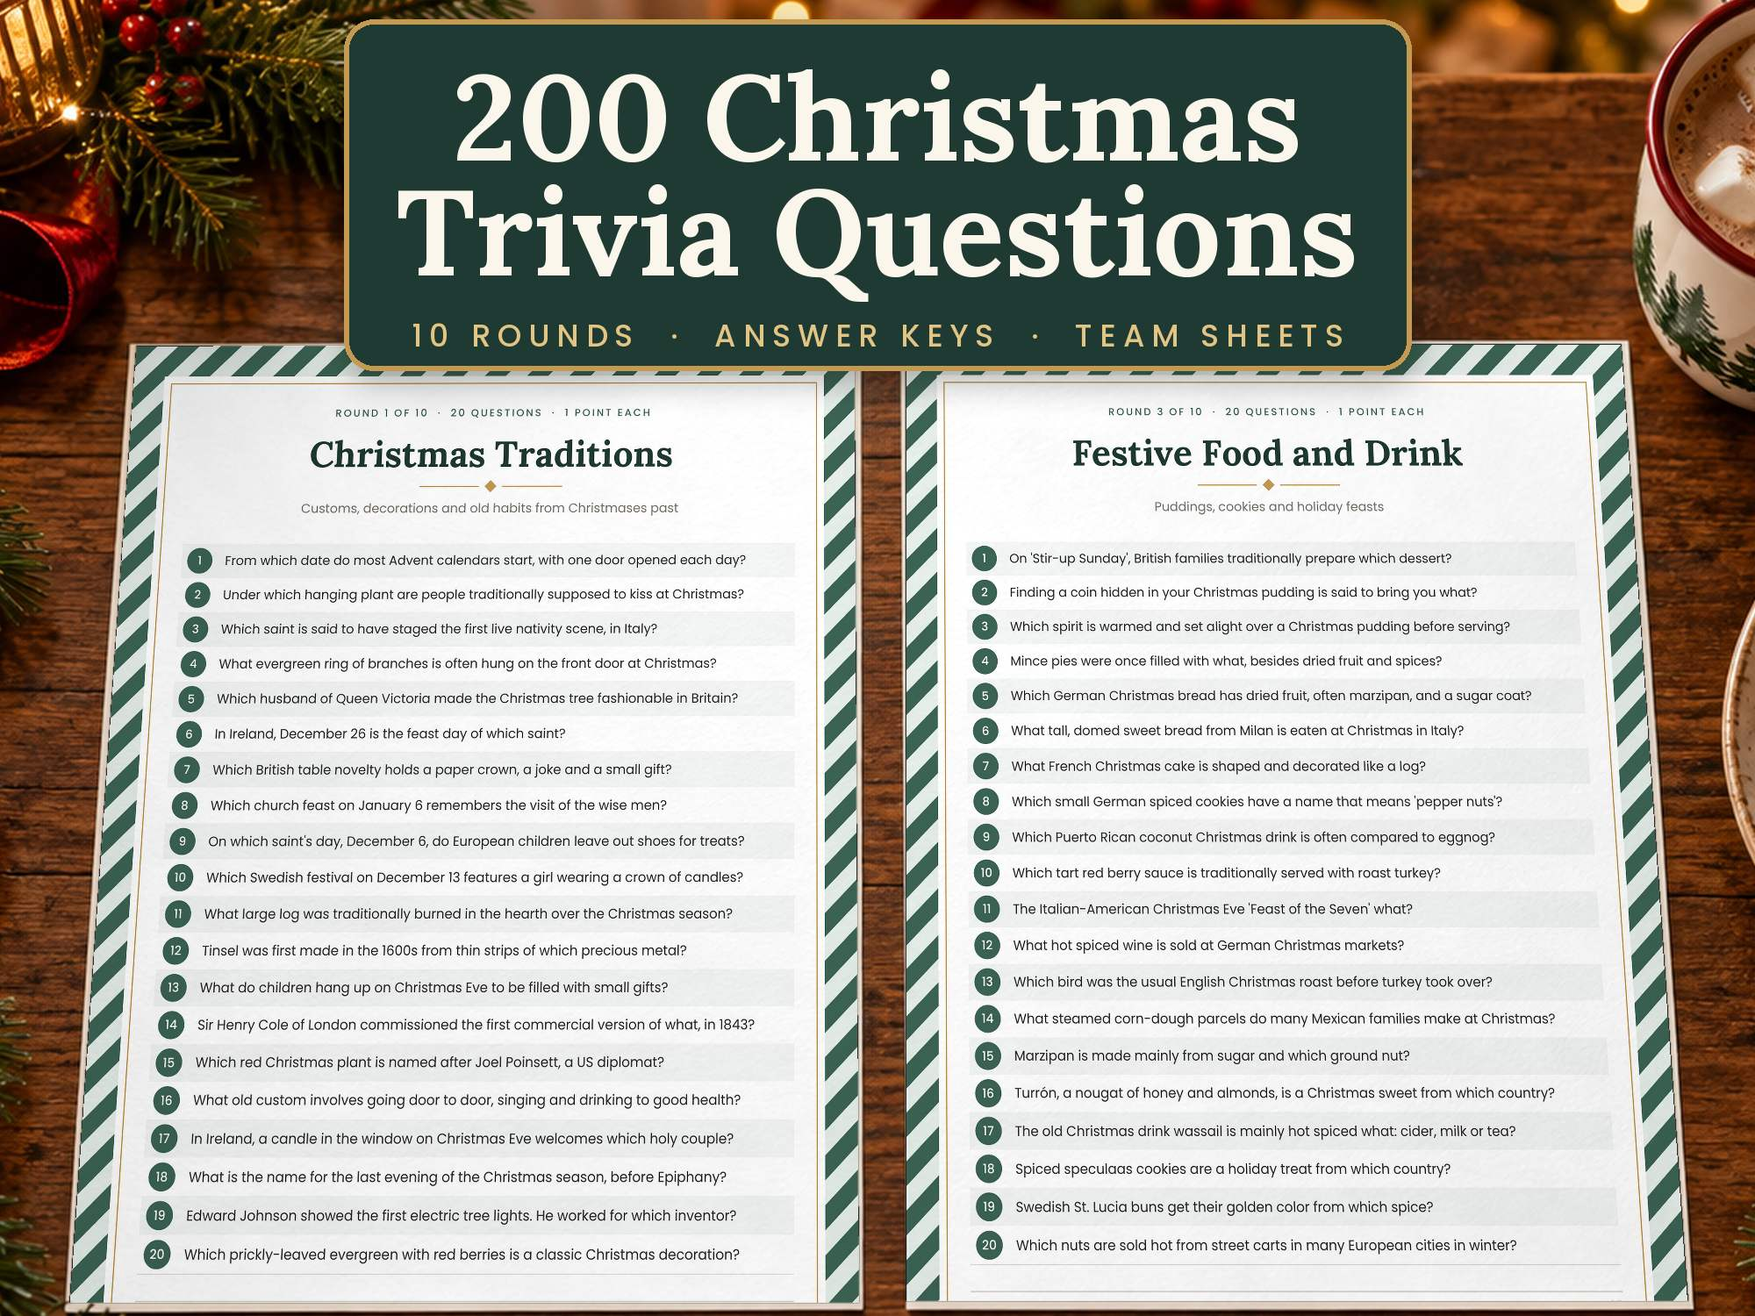
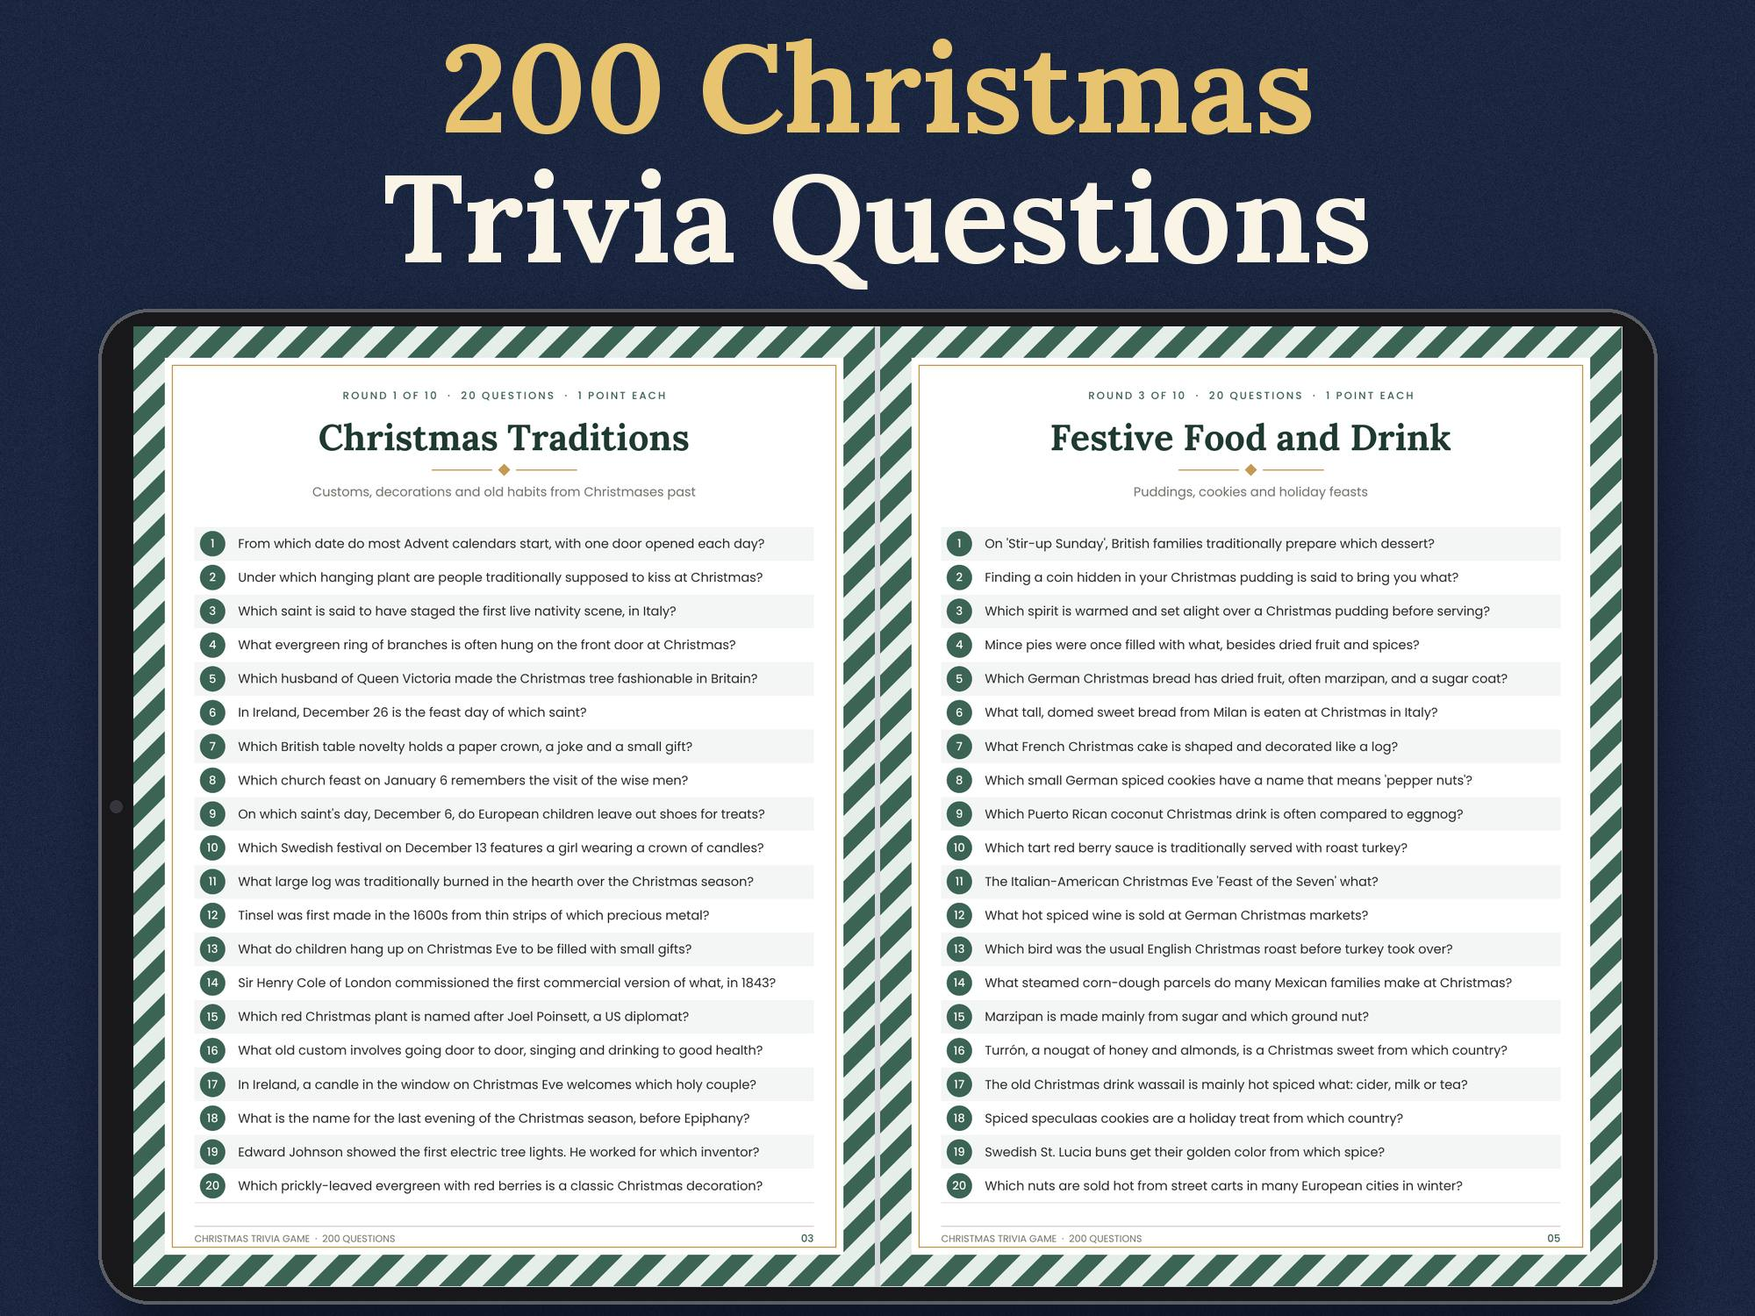
night-shift: fix round 1 Christmas Trivia 200 (device cover, photo 4 fan, 2 questions, tips box, copy teams claim)
Claude-Session: https://claude.ai/code/session_01UmW7iCF1r11qeVwSYsHRib

diff --git a/factory/stages/night-shift/output/2026-11-09-xmas-trivia-build/photos.py b/factory/stages/night-shift/output/2026-11-09-xmas-trivia-build/photos.py
@@ -21,53 +21,46 @@ font = gs.font
 used = {}
 
 
-# ------------------------------------------------------------------ 1 cover: real pages on the holiday-table scene, big cream headline card
+# ------------------------------------------------------------------ 1 cover (fix round 1): device family, landscape tablet
+# showing the real 2-page spread on a flat midnight-navy ground; gold + warm-white headline, no card, no table scene.
+NAVY = (27, 38, 64); GOLD = (233, 196, 112); WARM = (250, 244, 230)
 def cover():
     W, H = 2000, 1500
-    cx0, cy0, cw = 164, 55, 1110
-    s = W / cw
-    full = place.place("christmas", [P[3], P[5]], None, scale=s)
-    im = full.crop((round(cx0 * s), round(cy0 * s), round(cx0 * s) + W, round(cy0 * s) + H))
-    # page mask from the scene's slot quads (same numbers place.py uses)
-    quads = place.SCENES["christmas"][1]
-    mask = Image.new("L", (W, H), 0); md = ImageDraw.Draw(mask)
-    for q in quads:
-        md.polygon([((x - cx0) * s, (y - cy0) * s) for x, y in q], fill=255)
-    page_top = min(y for q in quads for x, y in q)
-    page_top_px = (page_top - cy0) * s
+    im = Image.new("RGB", (W, H), NAVY)
+    g = np.random.default_rng(7).normal(0, 4, (H, W, 1))
+    im = Image.fromarray(np.clip(np.asarray(im).astype(float) + g, 0, 255).astype("uint8"))
     d = ImageDraw.Draw(im)
-    # headline card
     l1, l2 = "200 Christmas", "Trivia Questions"
-    f1 = font("serifB", 138)
-    while max(f1.getlength(l1), f1.getlength(l2)) > 1300: f1 = font("serifB", f1.size - 4)
-    fs = font("sansM", 35)
-    sub = "10 ROUNDS  ·  ANSWER KEYS  ·  TEAM SHEETS"
-    b1 = d.textbbox((0, 0), l1, font=f1); b2 = d.textbbox((0, 0), l2, font=f1)
-    lh = f1.size * 0.95
-    q_bot = ImageDraw.Draw(Image.new('RGB', (10, 10))).textbbox((0, 0), l2, font=f1, anchor='ma')[3]   # incl. the Q tail
-    card_w = max(f1.getlength(l1), f1.getlength(l2), fs.getlength(sub) + 8 * len(sub)) + 120
-    card_h = 22 + lh + q_bot + 14 + 38 + 26
-    x0 = (W - card_w) / 2; y0 = 22
-    sh = Image.new("RGBA", (W, H), (0, 0, 0, 0)); sd = ImageDraw.Draw(sh)
-    sd.rounded_rectangle([x0 + 6, y0 + 14, x0 + card_w + 6, y0 + card_h + 14], 34, fill=(0, 0, 0, 70))
+    f1 = font("serifB", 142)
+    while max(f1.getlength(l1), f1.getlength(l2)) > 1440: f1 = font("serifB", f1.size - 4)
+    y = 8
+    d.text((W / 2, y), l1, font=f1, fill=GOLD, anchor="ma"); bb1 = d.textbbox((W / 2, y), l1, font=f1, anchor="ma")
+    y = bb1[3] + 2
+    d.text((W / 2, y), l2, font=f1, fill=WARM, anchor="ma"); bb2 = d.textbbox((W / 2, y), l2, font=f1, anchor="ma")
+    # tablet: bezel, screen with the two real pages side by side (whole pages, footers included)
+    top = bb2[3] + 22
+    bez, side, bot = 20, 40, 14
+    sh_ = H - bot - top - 2 * bez                 # screen height
+    pw = round(sh_ * 612 / 792); gut = 6
+    sw = 2 * pw + gut
+    tw = sw + 2 * side; th = sh_ + 2 * bez
+    tx = (W - tw) // 2; ty = top
     from PIL import ImageFilter
-    im.paste(Image.new("RGB", (W, H), (0, 0, 0)), (0, 0), sh.filter(ImageFilter.GaussianBlur(18)).split()[3])
+    shadow = Image.new("L", (W, H), 0)
+    ImageDraw.Draw(shadow).rounded_rectangle([tx + 10, ty + 24, tx + tw + 10, ty + th + 24], 60, fill=150)
+    im.paste((8, 12, 24), (0, 0), shadow.filter(ImageFilter.GaussianBlur(26)))
     d = ImageDraw.Draw(im)
-    d.rounded_rectangle([x0, y0, x0 + card_w, y0 + card_h], 34, fill=DEEP, outline=ACC, width=6)
-    y = y0 + 22
-    d.text((W / 2, y), l1, font=f1, fill=CREAM, anchor="ma"); bb1 = d.textbbox((W / 2, y), l1, font=f1, anchor="ma")
-    y += lh
-    d.text((W / 2, y), l2, font=f1, fill=CREAM, anchor="ma"); bb2 = d.textbbox((W / 2, y), l2, font=f1, anchor="ma")
-    y = bb2[3] + 14
-    # spaced small caps subline
-    tw = sum(fs.getlength(ch) for ch in sub) + 8 * (len(sub) - 1); xx = W / 2 - tw / 2
-    for ch in sub:
-        d.text((xx, y), ch, font=fs, fill=(226, 196, 132)); xx += fs.getlength(ch) + 8
-    card = (x0, y0, x0 + card_w, y0 + card_h)
-    sb = d.textbbox((W / 2, y), sub, font=fs, anchor='ma')
-    assert sb[1] >= bb2[3] + 10 and sb[3] <= card[3] - 18, ('subline crowded', sb, bb2, card)
-    mask.paste(0, [int(x0), int(y0), int(x0 + card_w) + 1, int(y0 + card_h) + 1])
-    return im, mask, {"line1": bb1, "line2": bb2, "card": card}, page_top_px
+    d.rounded_rectangle([tx, ty, tx + tw, ty + th], 58, fill=(24, 24, 27), outline=(92, 94, 102), width=4)
+    d.ellipse([tx + side / 2 - 7, ty + th / 2 - 7, tx + side / 2 + 7, ty + th / 2 + 7], fill=(52, 54, 60))
+    sx, sy = tx + side, ty + bez
+    d.rectangle([sx, sy, sx + sw, sy + sh_], fill=(214, 216, 220))
+    mask = Image.new("L", (W, H), 0); md = ImageDraw.Draw(mask)
+    for k, n in enumerate([3, 5]):
+        pg = P[n].convert("RGB").resize((pw, sh_), Image.LANCZOS)
+        x = sx + k * (pw + gut)
+        im.paste(pg, (x, sy)); md.rectangle([x, sy, x + pw - 1, sy + sh_ - 1], fill=255)
+    return im, mask, {"line1": bb1, "line2": bb2, "card": (min(bb1[0], bb2[0]), bb1[1], max(bb1[2], bb2[2]), bb2[3]),
+                      "tablet": (tx, ty, tx + tw, ty + th), "screen": (sx, sy, sx + sw, sy + sh_)}, sy
 
 
 im, mask, boxes, page_top_px = cover()
@@ -76,24 +69,18 @@ gs.thumb_check(im, OUT + "/thumb400.png")
 s_ = min(im.size); x_ = (im.width - s_) // 2
 im.crop((x_, 0, x_ + s_, s_)).resize((300, 300), Image.LANCZOS).save(OUT + "/thumb300.png")
 card = boxes["card"]
-assert card[0] >= 270 and card[2] <= 1730, ("headline card outside the centred square", card)
+assert card[0] >= 270 and card[2] <= 1730, ("headline outside the centred square", card)
 ink = boxes["line2"][3] - boxes["line1"][1]
 line_h = boxes["line1"][3] - boxes["line1"][1]
 print(f"cover headline: 2 lines, ink {ink}px = {ink / 1500 * 100:.1f}% of height (one line {line_h}px = {line_h / 1500 * 100:.1f}%)")
 assert line_h / 1500 >= 0.07 and ink / 1500 >= 0.09
-overlap = card[3] - page_top_px
-print(f"card bottom {card[3]:.0f}px, page tops {page_top_px:.0f}px: card overlaps the pages' top stripe by {max(0, overlap):.0f}px")
-# page text starts below the page's own stripe frame + kicker: about 7.5% of the page height
-page_h = (879 - 273) * 2000 / 1110
-assert overlap < 0.06 * page_h, ("headline card covers page text", overlap, page_h)
 m = np.asarray(mask) > 0
 print(f"real page pixels: {m.mean() * 100:.1f}% of the frame, {m[:, 250:1750].mean() * 100:.1f}% of the centred square")
 assert m.mean() >= 0.60 and m[:, 250:1750].mean() >= 0.60
-# whole pages: every slot corner (footers included) sits inside the frame
-for q in place.SCENES["christmas"][1]:
-    for x, y in q:
-        X, Y = (x - 164) * 2000 / 1110, (y - 55) * 2000 / 1110
-        assert 0 <= X <= 2000 and 0 <= Y <= 1500 - 8, ("cover crop cuts a page", X, Y)
+# whole pages: the tablet (and so every page edge and footer) sits inside the frame, nothing cut
+t = boxes["tablet"]; print("tablet box", t)
+assert t[0] >= 8 and t[1] >= 0 and t[2] <= 1992 and t[3] <= 1500 - 12, ("cover crop cuts the device/pages", t)
+ys, xs = np.nonzero(m); assert ys.max() <= 1500 - 30 and xs.min() >= 30 and xs.max() <= 1970
 
 
 def safe_text(d, xy, text, f, fill, anchor="la"):
@@ -156,29 +143,28 @@ def closeup():
 gs.save_jpeg(closeup(), OUT + "/3-closeup.jpg")
 
 
-# ------------------------------------------------------------------ 4 included: count + list, the PDF cover page big
+# ------------------------------------------------------------------ 4 included (fix round 1): 3 real pages fanned big
+# (PDF cover + Rounds 6 and 7, none shown elsewhere, never an answer key) over a 2-line list of what is inside
 def included():
     im = gs.paper(PAL["paper"], (2000, 1600)); d = ImageDraw.Draw(im)
-    d.rectangle([1080, 0, 2000, 1600], fill=gs.rgb(PAL["tint"]))
-    pw = 800
-    bb = gs.place(im, P[1], pw, (1150, 170), angle=-2, shadow=0.3)
+    safe_text(d, (1000, 40), "Everything in the 16-Page PDF", font("serifB", 88), DEEP, "ma")
+    w = 790
+    bl = gs.place(im, P[8], w, (175, 205), angle=6, shadow=0.3)
+    br = gs.place(im, P[9], w, (1035, 205), angle=-6, shadow=0.3)
+    bm = gs.place(im, P[1], w, (605, 170), angle=0, shadow=0.34)
     d = ImageDraw.Draw(im)
-    x = 270; y = 140
-    safe_text(d, (x, y), "16-Page PDF", font("serifB", 112), DEEP); y += 150
-    d.rectangle([x, y, x + 110, y + 6], fill=ACC); y += 46
-    f = font("sans", 50)
-    for it in ["How to play + host script", "10 rounds of 20 questions", "Answer keys for all 200",
-               "Team answer sheet", "Score sheet for 10 teams", "3 tie-breaker questions", "Easy Kids' Round included"]:
-        d.ellipse([x, y + 22, x + 20, y + 42], fill=PRIM)
-        b = d.textbbox((x + 48, y), it, font=f); assert b[2] < 1060, it
-        d.text((x + 48, y), it, font=f, fill=(43, 43, 43)); y += 118
-    y += 20
-    safe_text(d, (x, y), "Teams of 2 to 6  ·  mixed ages", font("sansM", 44), PRIM)
-    d.rectangle([0, 1490, 2000, 1600], fill=DEEP)
-    safe_text(d, (1000, 1545), "INSTANT DOWNLOAD  ·  PRINT AT HOME  ·  US LETTER PDF", font("sansM", 38), WHITE, "mm")
-    print("photo 4 list ends at y", y + 56, "; PDF cover page", bb)
-    assert bb[3] <= 1490 and bb[2] <= 2000
-    used[4] = [1]
+    span = max(bl[2], br[2], bm[2]) - min(bl[0], br[0], bm[0])
+    bot = max(bl[3], br[3], bm[3])
+    f = font("sansM", 41)
+    y = bot + 26
+    for line in ["Host script  ·  10 rounds of 20 questions  ·  answer keys for all 200",
+                 "Team answer sheet  ·  score sheet for 10 teams  ·  3 tie-breakers"]:
+        safe_text(d, (1000, y), line, f, PRIM, "ma"); y += 64
+    d.rectangle([0, 1500, 2000, 1600], fill=DEEP)
+    safe_text(d, (1000, 1550), "INSTANT DOWNLOAD  ·  PRINT AT HOME  ·  US LETTER PDF", font("sansM", 38), WHITE, "mm")
+    print(f"photo 4: 3 pages span {span}px = {span / 2000 * 100:.0f}% of width, pages end y {bot}, list ends y {y}")
+    assert span >= 0.8 * 2000 and y <= 1500 and min(bl[0], br[0], bm[0]) >= 0 and max(bl[2], br[2], bm[2]) <= 2000
+    used[4] = [1, 8, 9]
     return im
 
 

diff --git a/factory/stages/night-shift/output/2026-11-09-xmas-trivia-build/copy_gen.py b/factory/stages/night-shift/output/2026-11-09-xmas-trivia-build/copy_gen.py
@@ -11,7 +11,7 @@ tags = ["christmas trivia", "xmas trivia quiz", "xmas trivia game", "christmas q
         "trivia printable", "christmas party game", "office party games", "holiday party game", "christmas games",
         "xmas party games", "family game night", "christmas eve games"]
 rounds_list = "\n".join(f"{i}. {t} (20)" for i, (t, s, q) in enumerate(ROUNDS, 1))
-desc = f"""200 Christmas trivia questions for your family Christmas party, office party or holiday game night: 10 themed rounds of 20, with answer keys, a host script and team sheets, so a group of any size can play with no prep. Fun for a large group, and Round 9 is an easy Kids' Round so younger players can join in.
+desc = f"""200 Christmas trivia questions for your family Christmas party, office party or holiday game night: 10 themed rounds of 20, with answer keys, a host script and team sheets, so up to 10 teams of 2 to 6 can play with no prep. Round 9 is an easy Kids' Round so younger players can join in.
 
 Every question is original and fact-checked. There are no movie, song or TV rounds, so it works for church groups, classrooms, offices and mixed ages alike.
 
@@ -69,5 +69,16 @@ for i, (t, s, q) in enumerate(ROUNDS, 1):
     assert t.replace("'", "’") in pg(i + 2).replace("'", "’") or t in pg(i + 2), (i, t)
 assert sum(len(q) for t, s, q in ROUNDS) == 200 and len(TIEBREAKERS) == 3
 assert pg(16).count("TEAM") >= 1
+# fix round 1: every claim in the copy read back from the PDF by code
+import re as _re
+p2 = _re.sub(r"\s+", " ", pg(2)); p16 = pg(16)
+assert "any size" not in desc and "large group" not in desc
+assert "up to 10 teams of 2 to 6" in desc and "Teams of 2 to 6 players" in p2 and "fits up to 10 teams" in p2
+_nt = _re.search(r"^NT\s*=\s*(\d+)", open(HERE + "/build.py").read(), _re.M); assert _nt and int(_nt.group(1)) == 10, "score sheet team rows"
+assert "Joker" in p2 and "15 minutes" in p2 and "any 4 rounds" in p2 and "twice" in p2
+assert "Kids' Round" in pg(11).replace("’", "'") and "ROUND 9" in pg(11)
+assert "Ded Moroz" in pg(13) and "Grandfather Frost" in pg(4)
+assert not any(w in " ".join(pg(i) for i in range(3, 13)).lower() for w in ["movie", " song", " tv "])
+print("copy claims OK: teams 2-6 / 10 teams, Joker, 15 min, any 4 rounds, Kids' Round 9, 17 pages Letter")
 print(f"copy OK: title {len(title)} chars, 13 tags (max {max(map(len, tags))}), description {len(desc)} chars, price {price}, PDF 17 pages Letter, page list matches")
 json.dump(copy, open(HERE + "/copy.json", "w"), indent=1, ensure_ascii=False)

diff --git a/factory/stages/night-shift/output/2026-11-09-xmas-trivia-build/build.py b/factory/stages/night-shift/output/2026-11-09-xmas-trivia-build/build.py
@@ -173,15 +173,21 @@ y = y - h2 - GAP
 
 tips = ["Each round takes about 15 minutes with marking. Short on time? Play any 4 rounds in about an hour.",
         "Round 9 is an easy Kids' Round: use it as a warm-up or as a round for younger players.",
-        "A tie at the end? Three closest-number tie-breakers are on the score sheet (page 16)."]
+        "A tie at the end? Three closest-number tie-breakers are on the score sheet (page 16).",
+        "Keep a timer handy: about 30 seconds per question keeps every round moving."]
 
 h4 = y - BOTTOM
 need = HEAD + PAD + bullet_h(tips, W - 2 * PAD) + PAD
 print("host page: h1 %.0f h2 %.0f tips need %.0f have %.0f" % (h1, h2, need, h4))
 assert h4 >= need, ("host page overflow", h4, need)
 yy = card(L, y, W, h4, "Tips for a smooth game")
-yy -= (h4 - need) / 2   # center the tips so the page reaches the footer with no empty band
-bullet_draw(L + PAD, yy, tips, W - 2 * PAD)
+# fix round 1 (Judge): no empty band at the top of the tips card: spread the spare height between the tips
+spare = h4 - need
+print("tips spare %.0f pt over %d tips" % (spare, len(tips)))
+assert spare < 40, ("tips card has an empty band", spare)
+yy -= spare / (2 * len(tips))
+for t_ in tips:
+    yy = bullet_draw(L + PAD, yy, [t_], W - 2 * PAD) - spare / len(tips)
 d.end()
 
 # ================================================================== pages 3-12: the rounds
@@ -347,7 +353,7 @@ calc = {
     "If the winter solstice is on December 21, how many days later is Christmas Day?": str(25 - 21),
     "How many letters are in the word CHRISTMAS?": str(len("CHRISTMAS")),
     "Counting both days, how many days are there from December 1 to December 25?": str((datetime.date(2026, 12, 25) - datetime.date(2026, 12, 1)).days + 1),
-    "On which day of the week does Christmas Day 2026 fall?": datetime.date(2026, 12, 25).strftime("%A"),
+    "How many days are there in the month of December?": str(__import__("calendar").monthrange(2027, 12)[1]),
     "How many minutes are there in Christmas Day?": f"{24 * 60:,}",
     "24 party guests split into teams of 4. How many teams is that?": str(24 // 4),
     "By number, which month of the year is December?": f"{datetime.date(2026, 12, 1).month}th",

diff --git a/factory/stages/night-shift/output/2026-11-09-xmas-trivia-build/content.py b/factory/stages/night-shift/output/2026-11-09-xmas-trivia-build/content.py
@@ -45,7 +45,7 @@ ROUNDS = [
         ("In Poland, Christmas Eve dinner traditionally waits until what appears in the sky?", "The first star"),
         ("Each year, Oslo, Norway, gives a giant Christmas tree to which city as a thank-you?", "London"),
         ("In Greece, which saint traditionally brings children gifts on January 1?", "St. Basil"),
-        ("In Russia, who is 'Grandfather Frost', the gift-bringer at New Year?", "Ded Moroz"),
+        ("What is the Russian name of Grandfather Frost, the New Year gift-bringer?", "Ded Moroz"),
     ]),
     ("Festive Food and Drink", "Puddings, cookies and holiday feasts", [
         ("On 'Stir-up Sunday', British families traditionally prepare which dessert?", "Christmas pudding"),
@@ -219,7 +219,7 @@ ROUNDS = [
         ("How many letters are in the word CHRISTMAS?", "9"),
         ("Roughly how far is Bethlehem from Jerusalem: 6, 60 or 600 miles?", "About 6 miles"),
         ("Counting both days, how many days are there from December 1 to December 25?", "25"),
-        ("On which day of the week does Christmas Day 2026 fall?", "Friday"),
+        ("How many days are there in the month of December?", "31"),
         ("How many minutes are there in Christmas Day?", "1,440"),
         ("24 party guests split into teams of 4. How many teams is that?", "6"),
     ]),

diff --git a/factory/stages/night-shift/output/2026-11-09-run.md b/factory/stages/night-shift/output/2026-11-09-run.md
@@ -51,3 +51,10 @@ Facts: 200 of 200 answers checked, all 20 number answers and 3 tie-breakers reco
 Phrase check 2 days old (Nov 7 gateway, 'christmas trivia game printable' in 3+ of 25): counted, no point taken.
 FIX LIST (Judge 2026-11-09, for a fresh Builder): 1) COVER (rule fail, side-by-side): rebuild photo 1 off the holiday-table scene and off xmas_green: it reads as the same template as the live Oct 27 Party Bundle cover (same table, same green stripe pages, same top headline card over 2 pages). Use a layout family not on the last 5 covers and not the Party Bundle look (e.g. atlas-pack clipboard or a tablet/device family), headline colour not xmas_green/cranberry/berry/pink; keep '200 Christmas Trivia Questions' at 9%+ of height, pages 60%+ of frame, no page footer cut at the frame edge (current crop cuts both page bottoms); re-run the side-by-side vs every live cover plus page one's top 6 for 'christmas trivia game printable' and Read it. 2) PHOTO 4: replace the one small PDF cover page (about 40% of width) with 3 real pages fanned big (e.g. Rounds 6, 7 and the answer sheet; never an answer key) filling most of the frame width. 3) FILE: Round 2 Q20 reword to 'In Russia, what is the Russian name of Grandfather Frost, the New Year gift-bringer?' (answer Ded Moroz); Round 10 Q18 'On which day of the week does Christmas Day 2026 fall?' dates the file to one year: replace with an evergreen number question (e.g. 'If Christmas Eve is a Thursday, which day is Christmas Day?' answer Friday) and update page 14 key; tighten the empty top band in page 2's Tips box. Re-render, re-check keys by code, upload the new PDF asset. 4) COPY: 'so a group of any size can play' overclaims: say 'up to 10 teams of 2 to 6'. Then stage inspection for a fresh Judge. Expected after fixes: file 24, copy 19, images 17-18, market 13, price 9, polish 9 = 91-92.
 Stage: inspection, retries 1. No fixes made by the Judge (task prompt): the fix list goes to a fresh Builder, then a fresh Judge.
+
+## Fix round 1: Christmas Trivia Game Printable: 200 Questions in 10 Rounds
+Cover: device family (landscape tablet, Round 1 + Round 3 spread) on flat midnight navy, gold + warm-white headline, no card/table. Pages 61.6% of frame (72.6% of square), headline ink 19.1% (line 7.3%), tablet and footers whole inside the frame (asserted). Side-by-side vs 24 live covers: no other device/tablet or navy cover; nearest Escape Room (flat burgundy, title over pages). 300 px square: headline and 200 read. Rival top 6 not compared (no images on disk).
+Photo 4: PDF cover + Rounds 6, 7 fanned, span 88% of width; no answer key in any photo (asserted). Photo 2 re-rendered (page 2 changed).
+File: R2 Q20 -> Russian name of Grandfather Frost (Ded Moroz); R10 Q18 -> days in December (31, by calendar); tips card spare 36 -> 19 pt spread between 4 tips (new timer tip). Checks: 200 unique, 13 numbers computed, 200 keys on key pages, 0 banned words, check_boxes 0 faults, footers 0.26 in+. 17 pages, 155899 bytes.
+Copy: 'any size'/'large group' -> 'up to 10 teams of 2 to 6'; every claim read back from the PDF by code (teams, 10 rows, Joker, 15 min, any 4 rounds, Kids' Round 9, 17 pages Letter).
+Assets: PDF c4a5901174c04b433e1f668ad8d71c74, cover c43623627cfaa43708e5fb9f124667b0, photo 2 3623b978eb8c542a1706c8eee032c1e4, photo 4 6eed7f971fbd123b20e65afe3f81fd6a (old 4 deleted). Stage inspection; not self-graded.
